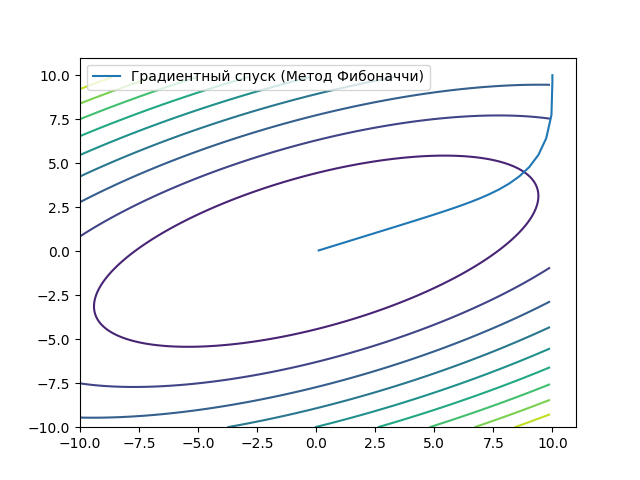
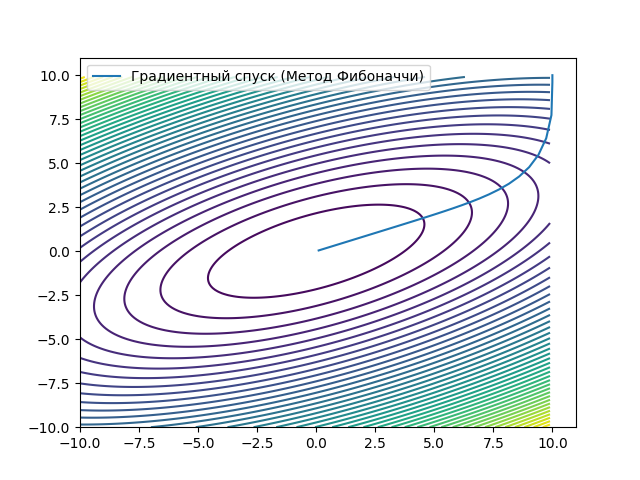
feat: beautify plots

diff --git a/Plotter.py b/Plotter.py
@@ -25,7 +25,7 @@ def parseOutputToFloat(fileName):
 def plotResult(dotFloats, labelName, fileName):
     fig, axes = pypl.subplots(nrows=1, ncols=1)
     args = np.meshgrid(np.arange(-10, 10, 0.1), np.arange(-10, 10, 0.1))
-    axes.contour(*args, parabolicFunction(args), 10)
+    axes.contour(*args, parabolicFunction(args), 50)
     axes.plot(*np.array(dotFloats).T, label=labelName)
     axes.legend()
     pypl.savefig(fileName)
@@ -34,7 +34,7 @@ def plotResult(dotFloats, labelName, fileName):
 # Conjugate gradient descent and GRStep gradient descent comparison plot
 fig, axes = pypl.subplots(nrows=1, ncols=1)
 args = np.meshgrid(np.arange(-10, 10, 0.1), np.arange(-10, 10, 0.1))
-axes.contour(*args, parabolicFunction(args), 10)
+axes.contour(*args, parabolicFunction(args), 50)
 axes.plot(*np.array(parseOutputToFloat("output-gradient/ConjugateGradientDescent")).T,
           label='Метод сопряженных градиентов')
 axes.plot(*np.array(parseOutputToFloat("output-gradient/GRStepDescent")).T, label='Метод градиентного спуска')
